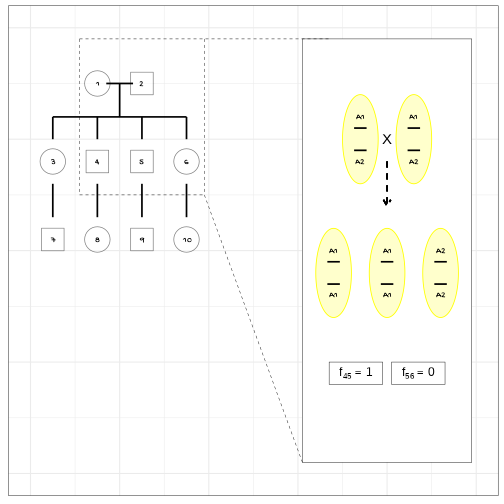
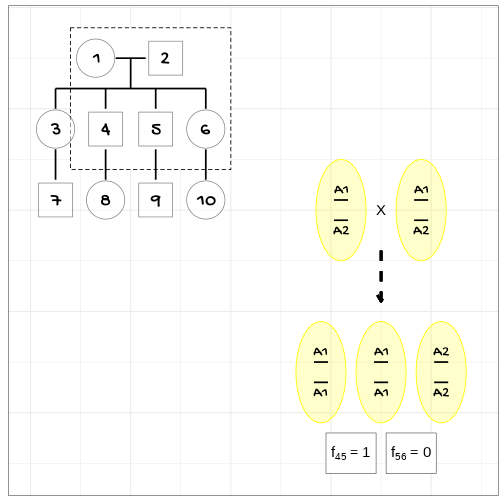
Se avanzó en la presentación.

diff --git a/Presentacion/index.html b/Presentacion/index.html
@@ -113,7 +113,7 @@ class: center
 
 &lt;P align="justify"&gt;Los valores genéticos de los individuos son obtenidos resolviendo este sistema de ecuaciones:&lt;/p&gt;
 
-&lt;img src="index_files/figure-html/unnamed-chunk-2-1.png" width="80%" style="display: block; margin: auto;" /&gt;
+&lt;img src="index_files/figure-html/unnamed-chunk-2-1.png" width="70%" style="display: block; margin: auto;" /&gt;
 
 &lt;!--
 NOTA: X y Z son las matrices de incidencia o matrices diseño de los efectos fijos y aleatorios, matrices de ceros y unos (excepto para variables regresoras o covariables) e y es el vector de datos que contiene simplemente las observaciones.
@@ -133,9 +133,11 @@ NOTA: X y Z son las matrices de incidencia o matrices diseño de los efectos fij
 
 ]
 
-.panel[.panel-name[Parentesco observado] 
+.panel[.panel-name[Parentesco esperado] 
 
-&lt;img src="index_files/figure-html/unnamed-chunk-5-1.png" width="100%" style="display: block; margin: auto;" /&gt;
+&lt;P align="justify"&gt;El parentesco que proviene al usar la matriz **A** es un parentesco esperado, lo cual no refleja el porcentaje real de genes idénticos entre individuos emparentados&lt;sup&gt;2&lt;/sup&gt;.&lt;/p&gt;
+
+&lt;img src="index_files/figure-html/unnamed-chunk-5-1.png" width="70%" style="display: block; margin: auto;" /&gt;
 
 ]
 
@@ -144,7 +146,7 @@ NOTA: X y Z son las matrices de incidencia o matrices diseño de los efectos fij
 .footnote[
 
 &lt;P align="justify"&gt;&lt;FONT SIZE=2&gt;[1] &lt;a name=cite-citejpgg&gt;&lt;/a&gt;[Gutiérrez (2010)](#bib-citejpgg).&lt;/FONT&gt;&lt;/p&gt;
-
+&lt;P align="justify"&gt;&lt;FONT SIZE=2&gt;[2] [Blasco (2021)](#bib-cite21).&lt;/FONT&gt;&lt;/p&gt;
 ]
 
 ---
